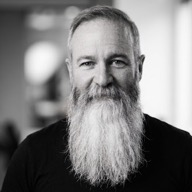
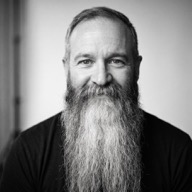
Swap in new portrait photo

diff --git a/index.html b/index.html
@@ -399,7 +399,7 @@
           </div>
           <div class="portrait">
             <div class="portrait-frame">
-              <img src="assets/brian.jpg" alt="Brian D. Frost" width="572" height="572">
+              <img src="assets/brian.jpg?v=2" alt="Brian D. Frost" width="900" height="900">
             </div>
             <div class="status-card" aria-hidden="true">
               <div><span class="k">deploy_lead_time:</span> <span class="v">hours</span></div>
